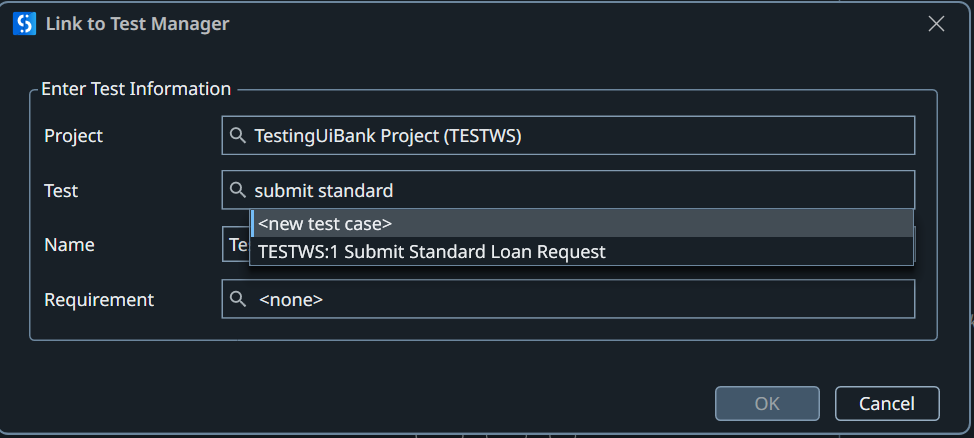
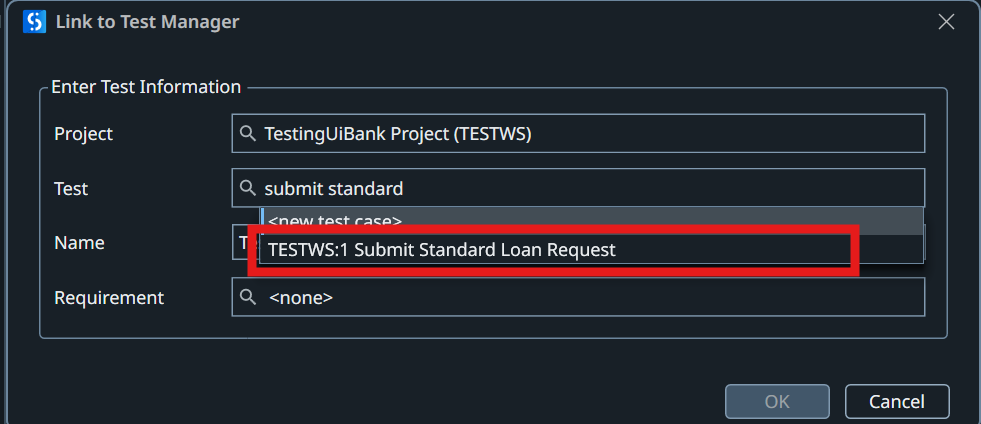
Step 6: highlighted sample test case in the link dialog; warn against <new test case>

Changed region(s): [[0.0, 0.0, 1.0, 1.0]]

diff --git a/docs/module-2-hands-on-workshop/06-automate-and-publish.md b/docs/module-2-hands-on-workshop/06-automate-and-publish.md
@@ -118,9 +118,14 @@ Set the test cases <TEST_CASE_1>, <TEST_CASE_2>, <TEST_CASE_3> in <YOUR_NAME>_Ui
 
             ![Link to Test Manager in the Explorer panel's right-click menu](../assets/images/Studio%20Link%20to%20Test%20Manager.png){ width="350" }
 
-        2. Check **Project** shows your project. In **Test**, search for the test case and select it, not **&lt;new test case&gt;**. Select **OK**.
+        2. Check **Project** shows your project. In **Test**, search for the test case by name and select it. Select **OK**.
 
-            ![Link to Test Manager dialog with a test case found in the Test field](../assets/images/Studio%20Link%20to%20Test%20Manager%20dialog.png){ width="500" }
+            The screenshot shows a sample test case selected. Yours has its own key and name.
+
+            ![Link to Test Manager dialog with a sample test case selected in the Test field](../assets/images/Studio%20Link%20to%20Test%20Manager%20dialog.png){ width="500" }
+
+            !!! warning "Don't pick &lt;new test case&gt;"
+                It creates a duplicate test case in Test Manager instead of linking the one you have.
 
         Or, in Test Manager, open the test case → **Automation** tab → **Configure Automation**, select the automation from your **<YOUR_NAME>_UiBank Tests** package, and select **Save**.
 
